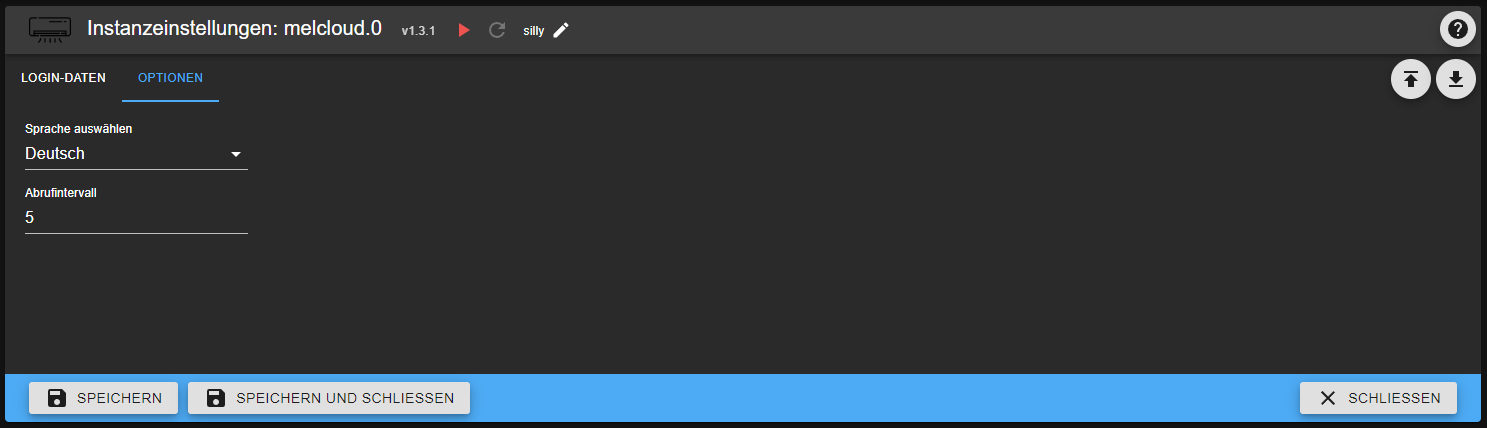
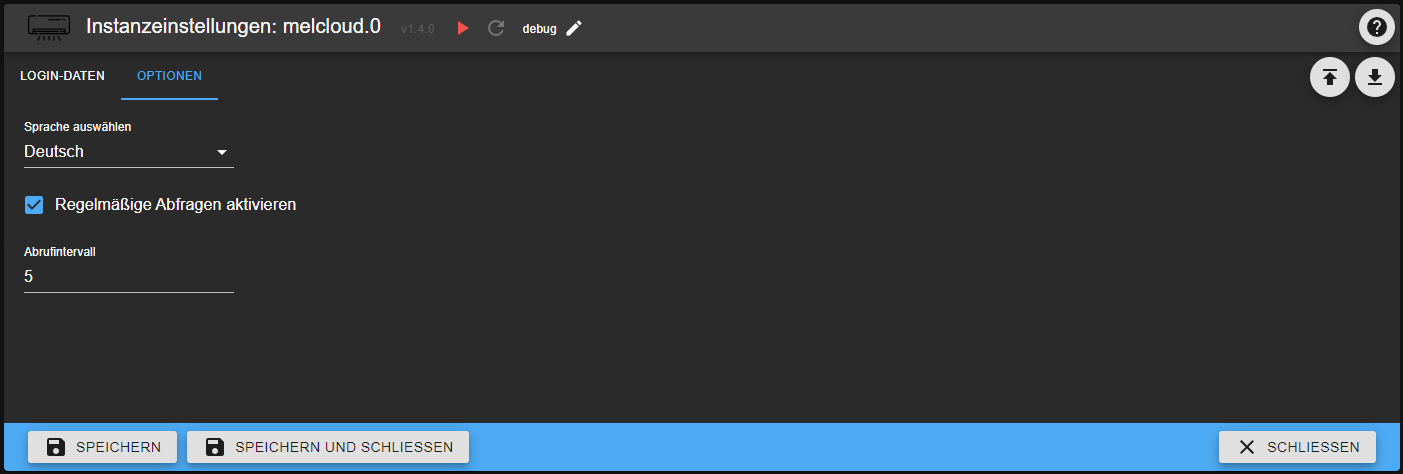
updated docs

diff --git a/docs/de/melcloud.md b/docs/de/melcloud.md
@@ -10,9 +10,12 @@ Um diesen Adapter korrekt verwenden zu können, müssen folgende Vorbereitungen 
 
 ## Hinweise
 
-* Ab v1.1.1 wurde die Ver-/Entschlüsselung des Passworts geändert. Daher muss bei einem Upgrade einmalig das Passwort erneut in den Adapter-Einstellungen eingeben werden. Ansonsten schlägt die Anmeldung fehl und der Adapter bleibt auf rot.
+* Ab v1.1.1 wurde die Ver-/Entschlüsselung des Passwortes geändert. Daher muss bei einem Upgrade das Passwort in den Adapter-Einstellungen einmalig neu eingegeben werden. Ansonsten schlägt die Anmeldung fehl und der Adapter bleibt rot.
 * Ab v1.1.3 muss js-controller mindestens in der Version 3.1 installiert sein.
-* Bei einem Upgrade auf v1.2.0 (oder höher) bitte einmalig die Objektstrukturen unter "melcloud.X.devices.Y.reports" komplett löschen und den Adapter neustarten, damit diese neu angelegt werden können. Die neue Struktur ist weiter unten beschrieben.
+* Bei einem Upgrade auf v1.2.0 (oder höher) bitte einmalig die Objektstrukturen unter "melcloud.X.devices.YYYYY.reports" komplett löschen und den Adapter neu starten, damit diese neu erstellt werden können. Die neue Struktur ist in der Dokumentation beschrieben.
+* Falls der Fehler "Error: unable to verify the first certificate" auftritt, bitte auf Version 1.3.5 oder höher updaten.
+* Ab v1.3.6 muss mindestens Node.Js 16 verwendet werden.
+* Ab v1.3.7 ist das minimale Abfrageintervall auf 5 Minuten beschränkt.
 
 ## Konfiguration
 
@@ -21,7 +24,8 @@ Um diesen Adapter korrekt verwenden zu können, müssen folgende Vorbereitungen 
 
 An dieser Stelle kann die jeweilige Adapter-Instanz konfiguriert werden. Zwingend nötig für die Funktionalität sind die Zugangsdaten (E-Mail-Adresse und Passwort) des MELCloud-Accounts.
 
-Auf der zweiten Tabe kann die Region des Accounts angegeben werden. Zusätzlich wird hier das Intervall (in Minuten) angegeben, wie oft Daten von der MELCloud abgerufen und gespeichert werden sollen. Das kleinstmögliche Intervall ist 5 Minuten, um zu verhindern, dass der MELCloud-Account wegen zu häufiger Abfragen temporär gesperrt wird. Sollte es während des Betriebs des Adapters zu Verbindungsproblemen mit der MELCloud (z.B. Serverausfall, Internetabbruch) kommen, so wird höchstens noch dreimal versucht, eine Verbindung herzustellen. Sollte dies dann auch nicht gelingen, so wird der nächste Versuch erst in einer Stunde stattfinden.
+Auf der zweiten Tabe kann die Region des Accounts angegeben werden. Zusätzlich kann hier der regelmäßige Abruf der Daten aus der MELCLoud aktiviert bzw. deaktiviert werden.
+Sollte dies aktiviert sein, kann das Intervall (in Minuten) angegeben werden, wie oft Daten von der MELCloud abgerufen und gespeichert werden sollen. Das kleinstmögliche Intervall beträgt 5 Minuten, um zu verhindern, dass der MELCloud-Account aufgrund zu häufiger Abfragen vorübergehend gesperrt wird. Sollte es während des Betriebs des Adapters zu Verbindungsproblemen mit der MELCloud kommen (z.B. Serverausfall, Internetunterbrechung), wird maximal dreimal versucht, eine Verbindung herzustellen. Gelingt dies auch nicht, wird der nächste Versuch erst in einer Stunde unternommen. 
 
 ## Objekte
 

diff --git a/docs/en/melcloud.md b/docs/en/melcloud.md
@@ -10,9 +10,12 @@ In order to use this adapter, there are a few things you have to prepare in adva
 
 ## Upgrade notes
 
-* In v1.1.1 password de-/encryption was changes. If you are upgrading from a lower version you have to enter your password one more time in  the adapter settings. Otherwise login will fail and the adapter won't connect to the cloud.
-* Starting with v1.1.3 js-controller has to be installed in v3.1 or greater.
-* If you are upgrading to v1.2.0 (or higher) you have to delete all objects under "melcloud.X.devices.Y.reports" completly. Afterwards restart the adapter, so that the new object structure can be created correctly. The new structure is documented below.
+* In v1.1.1 the password decryption/encryption was changed. If you are upgrading from a lower version, you must enter your password again in the adapter settings. Otherwise login will fail and the adapter won't connect to the cloud.
+* Starting with v1.1.3, js-controller must be installed in v3.1 or higher.
+* If you are upgrading to v1.2.0 (or higher), you must completely delete all items under "melcloud.X.devices.Y.reports". Then restart the adapter for the new object structure to be created correctly. The new structure is documented below.
+* If you receive the error message "Error: unable to verify the first certificate", please upgrade to v1.3.5 or higher.
+* Starting with v1.3.6, Node.Js 16 is required.
+* Starting with v1.3.7, the minimum polling interval is limited to 5 minutes.
 
 ## Configuration
 
@@ -21,11 +24,12 @@ In order to use this adapter, there are a few things you have to prepare in adva
 
 Here you can configure your adapter instance. Mandatory for the adapter to work are your MELCloud credentials (email address and password). 
 
-On the second tab you need to specify your account region. Apart from that you can configure the time interval when your device data is polled and updated from MELCloud (minimum 5 minutes to avoid being throttled by the MELCloud servers). If at any time the connection to MELCloud should fail (e.g., server problem, internet connection issues), the adapter tries at a maximum of three times to reconnect. Should there be still no connection after these retries, the next retry will take place after one hour.
+On the second tab you need to specify your account region. In addition, you can enable or disable periodic polling of data from MELCloud.
+If enabled, the time interval when your device data is polled and updated from MELCloud (minimum 5 minutes to avoid being throttled by MELCloud servers). If the connection to MELCloud should fail at any time (e.g. server problem, internet connection problems), the adapter will try to reconnect up to three times. If there is still no connection after these retries, the next retry will take place after one hour.
 
 ## Objects
 
-After successful start of the adapter instance (X) your devices are queried from MELCloud. For each device (Y) there will be a separate node.
+After successful start of the adapter instance (X), your devices are queried by MELCloud. For each device (Y) there will be a separate node.
 
 ### melcoud.X.info
 
